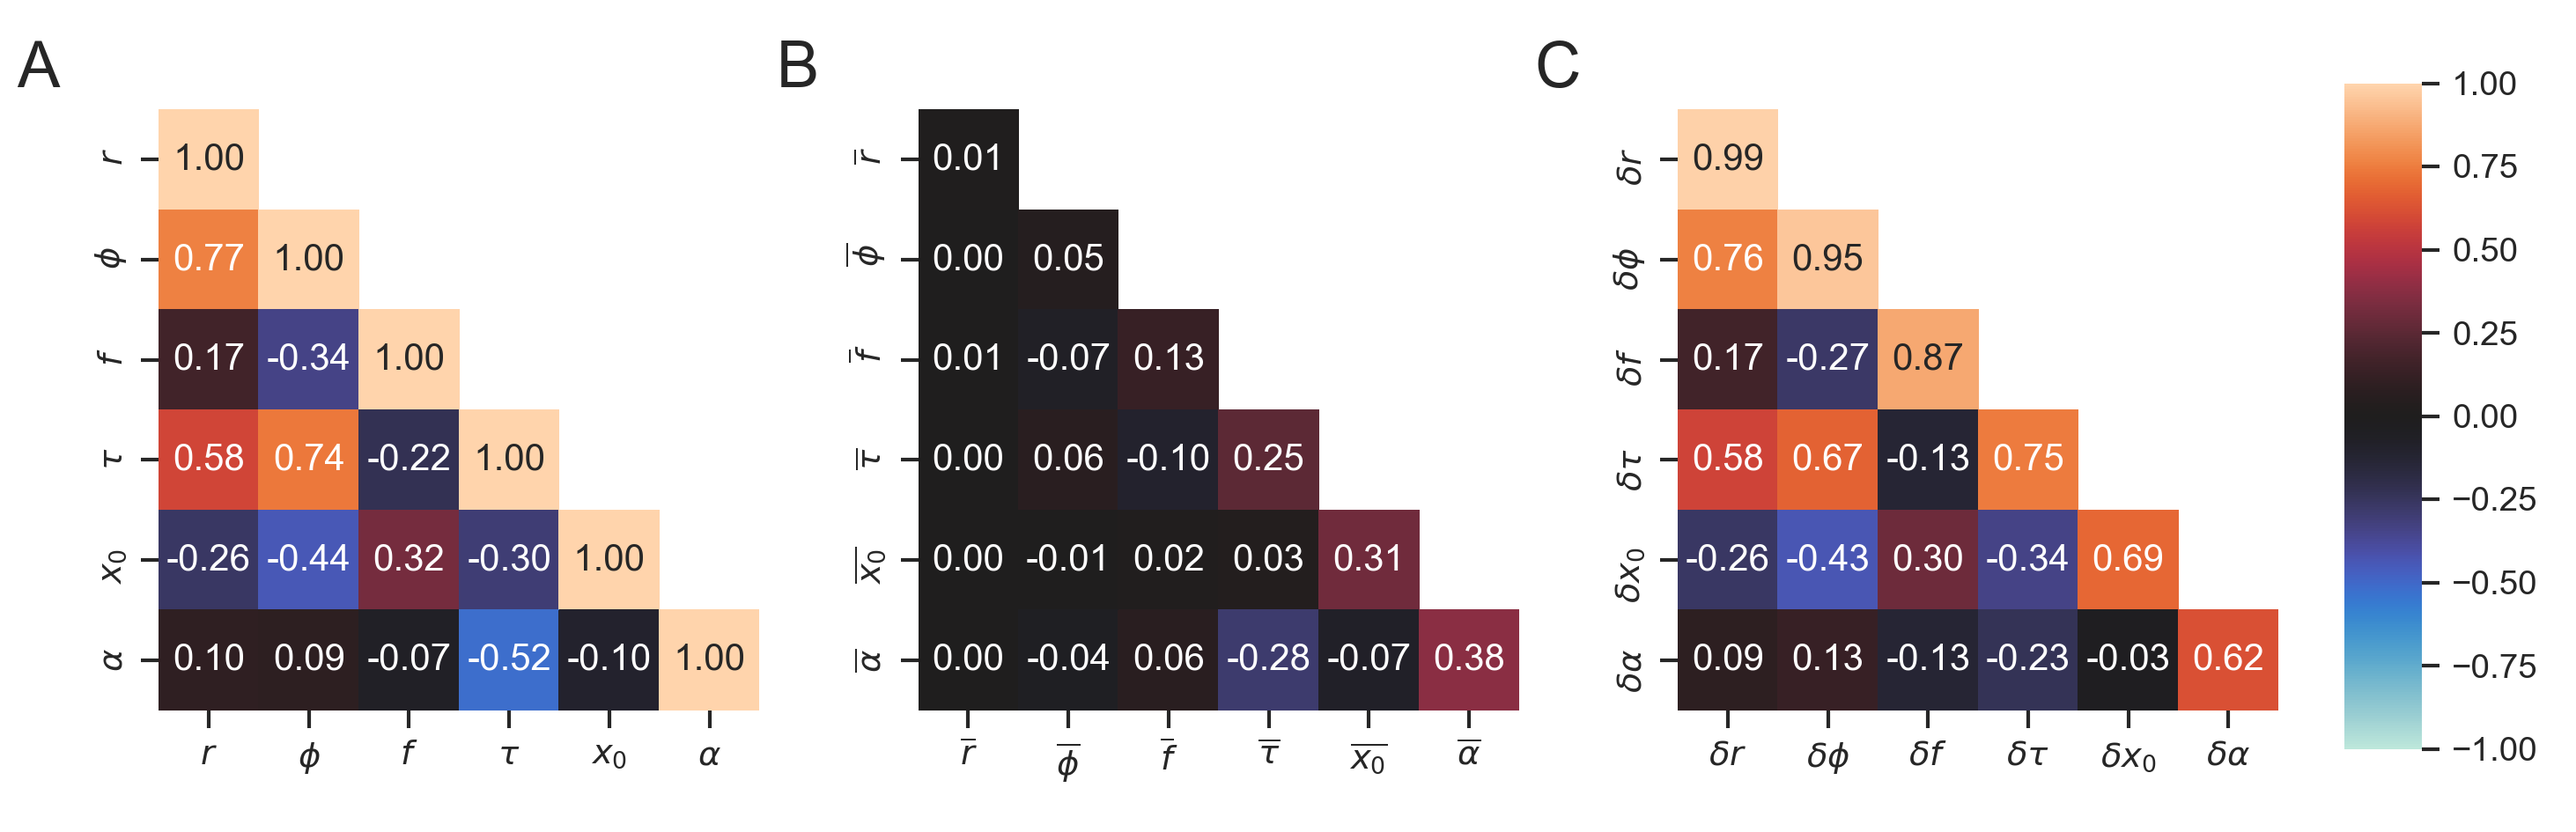
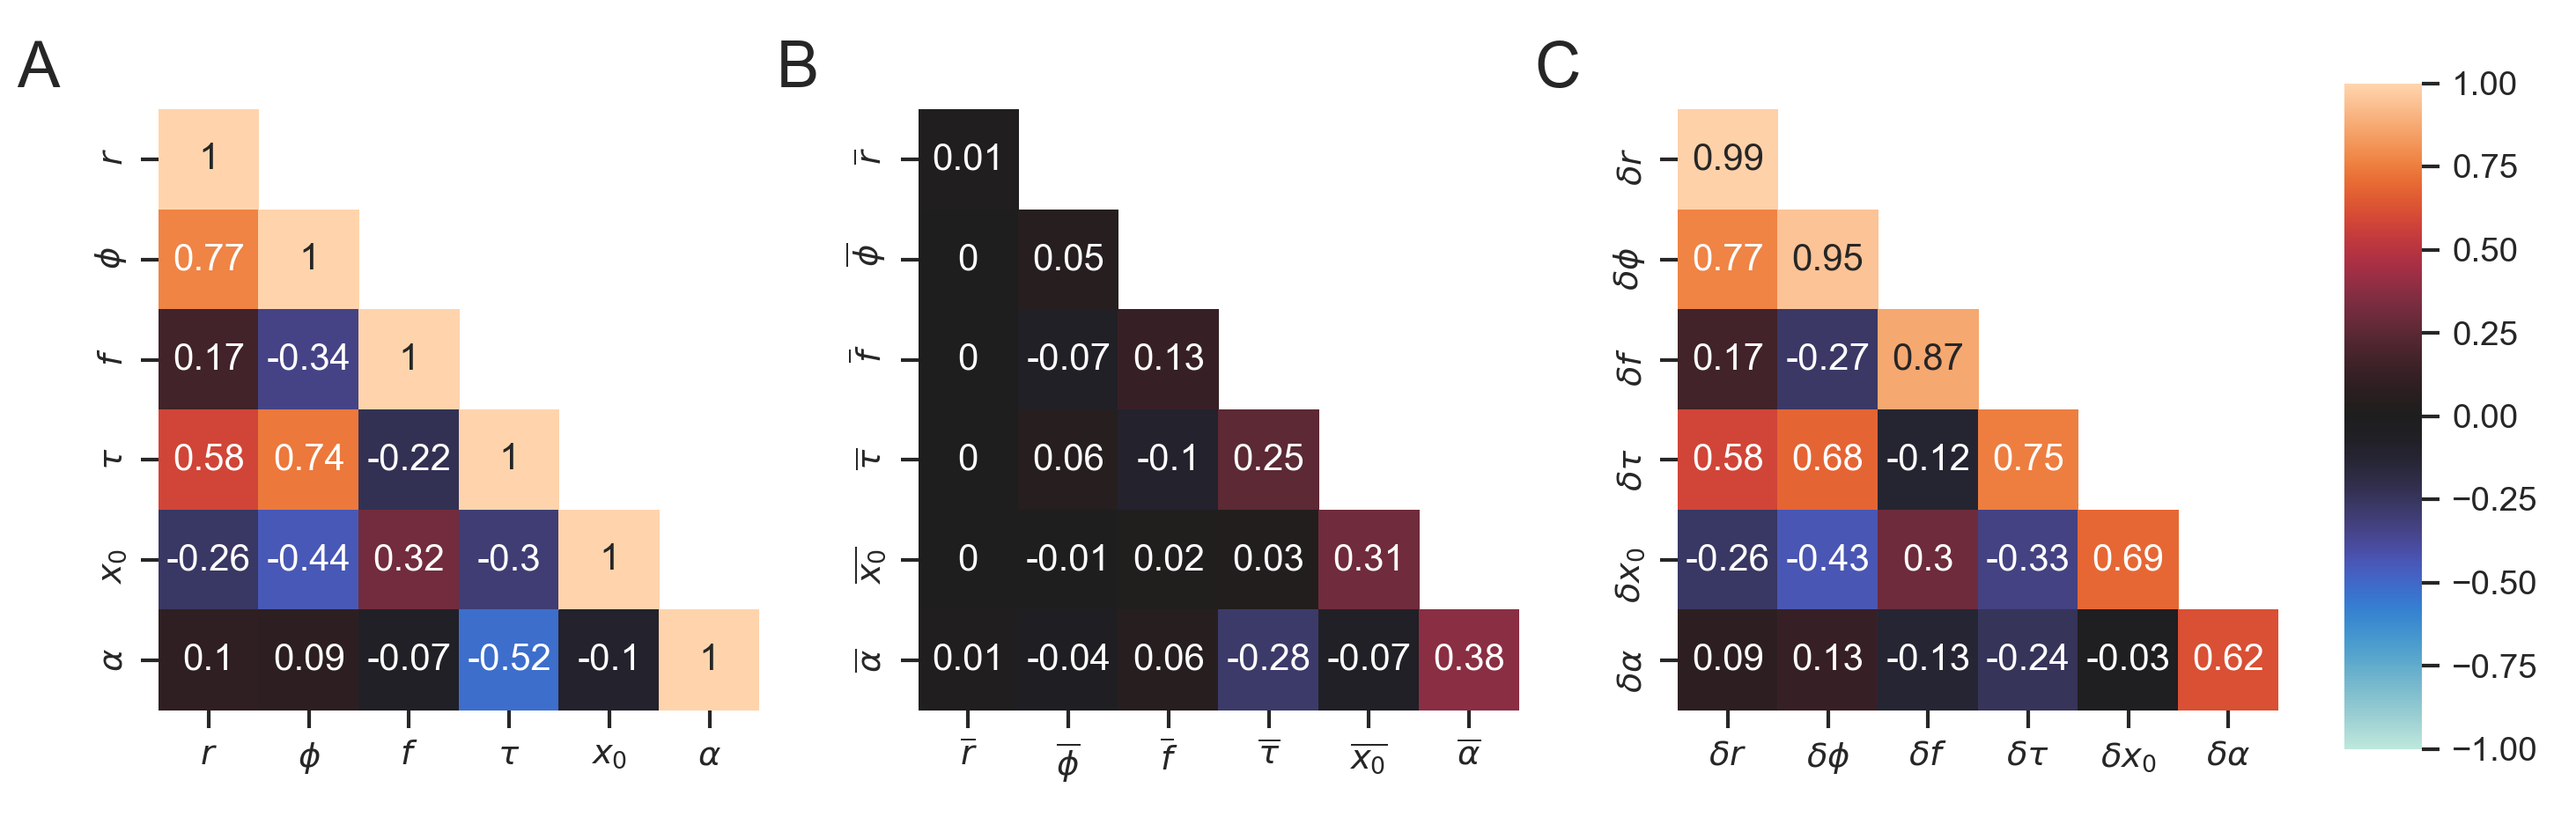
11/3/21

diff --git a/CovarianceDecomposition/covariance_decomposition_pyramids.py b/CovarianceDecomposition/covariance_decomposition_pyramids.py
@@ -14,7 +14,7 @@ def pyramid_of_pairwise_covariances(pu, ta, tc, fig, axes, variables=phenotypic_
         # The pooled mean
         pooled_pu_mean = phys[variables].mean()
 
-        pu_corr_df = phys.cov(ddof=1)
+        pu_corr_df = pd.DataFrame(columns=variables, index=variables, dtype=float)
         ta_corr_df = pd.DataFrame(columns=variables, index=variables, dtype=float)
         tc_corr_df = pd.DataFrame(columns=variables, index=variables, dtype=float)
         
@@ -27,31 +27,49 @@ def pyramid_of_pairwise_covariances(pu, ta, tc, fig, axes, variables=phenotypic_
                 else:
                     print(param_1, param_2)
                 
-                normalization = (pu[param_1].std(ddof=1) * pu[param_2].std(ddof=1))
+                normalization = (phys[param_1].std(ddof=1) * phys[param_2].std(ddof=1))
+                # print('normalization', normalization)
                 
                 # The two components in the decomposition
-                delta = []
-                line = []
+                total = np.array([])
+                delta = np.array([])
+                line = np.array([])
                 
                 for lin_id in phys.lineage_ID.unique():
                     l_cond = (phys['lineage_ID'] == lin_id)  # Condition that they are in the same experiment and lineage
-                    lin = phys[l_cond].copy()[[param_1, param_2]].dropna().reset_index(drop=True)  # The masked dataframe that contains bacteria in the same lineage and experiment
+                    # The masked dataframe that contains bacteria in the same lineage and experiment
+                    lin = phys[l_cond].copy()[[param_1, param_2]].dropna().reset_index(drop=True) if param_1 != param_2 else phys[l_cond].copy()[param_1].dropna().reset_index(drop=True)
+                    
+                    # print('lin', lin, type(lin))
                 
                     # Add the components
-                    line.append(len(lin) * ((lin[param_1].mean() - pooled_pu_mean[param_1]) * (lin[param_2].mean() - pooled_pu_mean[param_2])))
-                    delta.append((lin[param_1] - lin[param_1].mean()) * (lin[param_2] - lin[param_2].mean()))
+                    if param_1 != param_2:
+                        total = np.append(total, (lin[param_1] - pooled_pu_mean[param_1]).values * (lin[param_2] - pooled_pu_mean[param_2]))
+                        line = np.append(line, len(lin) * ((lin[param_1].mean() - pooled_pu_mean[param_1]) * (lin[param_2].mean() - pooled_pu_mean[param_2])))
+                        delta = np.append(delta, (lin[param_1] - lin[param_1].mean()).values * (lin[param_2] - lin[param_2].mean()).values)
+                    else:
+                        total = np.append(total, (lin - pooled_pu_mean[param_1]) ** 2)
+                        line = np.append(line, np.array(len(lin) * ((lin.mean() - pooled_pu_mean[param_1]) ** 2)))
+                        delta = np.append(delta, np.array((lin - lin.mean()) ** 2))
     
                 # Get the variance of each one
-                delta_cov = (np.sum(delta) / (len(phys[[param_1, param_2]].dropna()) - 1)) / normalization
-                lin_cov = (np.sum(line) / (len(phys[[param_1, param_2]].dropna()) - 1)) / normalization
-    
-                print(delta_cov, lin_cov, (delta_cov + lin_cov), pu_corr_df.loc[param_1, param_2])
+                total_cov = (np.sum(total) / (len(phys[[param_1, param_2]].dropna()) - 1))
+                delta_cov = (np.sum(delta) / (len(phys[[param_1, param_2]].dropna()) - 1))
+                lin_cov = (np.sum(line) / (len(phys[[param_1, param_2]].dropna()) - 1))
                 
                 # Make sure it is a true decomposition
-                assert (np.abs(pu_corr_df.loc[param_1, param_2] - (delta_cov + lin_cov)) < .0000001).all()
+                assert (np.abs(total_cov / normalization - (delta_cov + lin_cov) / normalization) < .0000001).all()
+                
+                lin_cov = np.round(lin_cov / normalization, 2)
+                delta_cov = np.round(delta_cov / normalization, 2)
+                total_cov = np.round(total_cov / normalization, 2)
+                
+                if lin_cov + delta_cov != total_cov:
+                    delta_cov += total_cov - (delta_cov + lin_cov)  # Change the short term correlations accordingly so that they all add up to one
 
                 ta_corr_df.loc[param_1, param_2] = lin_cov
                 tc_corr_df.loc[param_1, param_2] = delta_cov
+                pu_corr_df.loc[param_1, param_2] = total_cov
                 
             memory.append(param_1)
                 
@@ -78,25 +96,14 @@ def pyramid_of_pairwise_covariances(pu, ta, tc, fig, axes, variables=phenotypic_
     #
     #     return corr_df
     
-    # So that we get a lower diagonal matrix
-    mask = np.ones_like(normalize_correlation(pu, variables))
-    mask[np.tril_indices_from(mask)] = False
-    
     # The bounds for the color in the heatmap. Given from the bounds of the pearson correlation
     vmax, vmin = 1, -1
 
     npu, nta, ntc = normalize_correlation(pu, variables)
     
-    # # Different normalized correlations corresponding to the different pyramids. Change their column names to the latex version for plotting.
-    # npu = normalize_correlation(pu, variables).rename(columns=symbols['physical_units'], index=symbols['physical_units'])
-    # nta = normalize_correlation(ta, variables).rename(columns=symbols['time_averages'], index=symbols['time_averages'])
-    # ntc = normalize_correlation(tc, variables).rename(columns=symbols['trace_centered'], index=symbols['trace_centered'])
-    
-    print(npu.loc[symbols['physical_units']['growth_rate'], symbols['physical_units']['generationtime']])
-    print(nta.loc[symbols['time_averages']['growth_rate'], symbols['time_averages']['generationtime']] + ntc.loc[symbols['trace_centered']['growth_rate'], symbols['trace_centered']['generationtime']])
-    print(nta.loc[symbols['time_averages']['growth_rate'], symbols['time_averages']['generationtime']])
-    print(ntc.loc[symbols['trace_centered']['growth_rate'], symbols['trace_centered']['generationtime']])
-    exit()
+    # So that we get a lower diagonal matrix
+    mask = np.ones_like(npu)
+    mask[np.tril_indices_from(mask)] = False
     
     # Plot the first pyramid
     sns.heatmap(npu, annot=annot, center=0, vmax=vmax,
@@ -116,7 +123,7 @@ def pyramid_of_pairwise_covariances(pu, ta, tc, fig, axes, variables=phenotypic_
     axes[2].set_title('C', x=-.2, fontsize='xx-large')
     
     fig.tight_layout(rect=[0, 0, .9, 1])
-    # plt.savefig(f'{figurename}.png', dpi=300)
+    plt.savefig(f'{figurename}.png', dpi=300)
     plt.show()
     plt.close()
 

diff --git a/SizeVariablesAverageBehavior/size_variables_code.py b/SizeVariablesAverageBehavior/size_variables_code.py
@@ -17,11 +17,11 @@ def add_scatterplot_of_averages(var1, var2, pooled, time_average, ax, type_of_li
             # lineages = df[(df['experiment'] == exp)].lineage_ID.unique()
             ax.scatter(time_average.sort_values('lineage_ID')[var1],  # So they don't overlap too much
                        time_average.sort_values('lineage_ID')[var2],  # [df[(df['experiment'] == exp) & (df['lineage_ID'] == lin_id)][var2].mean() for lin_id in lineages[:min(len(lineages), 50)]]
-                       marker=marker, zorder=500, label=exp.split('(')[0] if type_of_lineage == 'Trace' else '', alpha=.6)
+                       marker=marker, zorder=500, label=exp.split('(')[0] if type_of_lineage == 'Trace' else '', alpha=.4)
     else:
         first = time_average.sort_values('lineage_ID')[var1]  # [df[df['lineage_ID'] == lin_id][var1].mean() for lin_id in df.lineage_ID.unique() if len(df[df['lineage_ID'] == lin_id]) > 6]
         second = time_average.sort_values('lineage_ID')[var2]  # [df[df['lineage_ID'] == lin_id][var2].mean() for lin_id in df.lineage_ID.unique() if len(df[df['lineage_ID'] == lin_id]) > 6]
-        ax.scatter(first, second, marker=marker, c=cmap[0] if type_of_lineage == 'Trace' else cmap[1], zorder=500, alpha=.6,
+        ax.scatter(first, second, marker=marker, c=cmap[0] if type_of_lineage == 'Trace' else cmap[1], zorder=500, alpha=.4,
                    label='Trace' if type_of_lineage == 'Trace' else 'Artificial')
         print(f'Trace averages correlation: {pearsonr(first, second)[0]}' if type_of_lineage == 'Trace'
               else f'Artificial averages correlation: {pearsonr(first, second)[0]}')
@@ -40,10 +40,10 @@ def plot_binned_data(df, var1, var2, num, ax):
         x_binned.append(df.loc[indices][var1].mean())
         y_binned.append(df.loc[indices][var2].mean())
     
-    ax.plot(x_binned, y_binned, marker='s', label='binned', zorder=1000, alpha=.6, c='k')
+    ax.plot(x_binned, y_binned, marker='s', label='binned', zorder=1000, alpha=.4, c='k')
 
 
-def kde_scatterplot_variables(df, var1, var2, num, ax, line_func=[], line_label='', pooled=False, artificial=None, sym1=None, sym2=None):  # df is pu of ONE experiment
+def kde_scatterplot_variables(df, var1, var2, num, ax, line_func=[], line_label='', pooled=False, artificial=None, sym1=None, sym2=None, pu=None):  # df is pu of ONE experiment
     # The symbols for each variable
     if sym1 == None:
         sym1 = symbols['physical_units'][var1]  # if var1 != 'division_ratio' else r'$\ln(f)$'
@@ -60,7 +60,7 @@ def kde_scatterplot_variables(df, var1, var2, num, ax, line_func=[], line_label=
         print(f'pooled correlation (Artificial): {pearsonr(no_nans_art[var1].values, no_nans_art[var2].values)[0]}')
     
     # To speed it up we sample randomly 1,000 points
-    # sns.kdeplot(data=df.sample(frac=.8, replace=False), x=var1, y=var2, color='gray', ax=ax)  # Do the kernel distribution approxiamtion for variables in their physical dimensions
+    sns.kdeplot(data=pu, x=var1, y=var2, color=cmap[1], ax=ax, levels=[.2, .3, .4, .5, .6, .7, .8])  # Do the kernel distribution approxiamtion for variables in their physical dimensions
     add_scatterplot_of_averages(var1, var2, pooled, df, ax, type_of_lineage='Trace')  # Put the average behavior
     
     if len(line_func) == 0:  # if we didn't put any
@@ -76,7 +76,7 @@ def kde_scatterplot_variables(df, var1, var2, num, ax, line_func=[], line_label=
             ax.plot(fake_x, func(fake_x), color='black' if count == 0 else 'gray', ls='--', label=line_label, zorder=1000)  # plot the x distribution
     
     # plt.title(ds)
-    # plot_binned_data(df, var1, var2, num, ax)  # plot the binned data
+    plot_binned_data(pu, var1, var2, num, ax)  # plot the binned data
     ax.set_xlabel(sym1)
     ax.set_ylabel(sym2)
     # ax.legend(title='')
@@ -156,12 +156,13 @@ def plot_pair_scatterplots(df, var1, var2, ax, sym1=None, sym2=None):
     
 
 pu = pd.read_csv(f'/Users/alestawsky/PycharmProjects/Thesis/Datasets/Pooled_SM/ProcessedData/z_score_under_3/physical_units_without_outliers.csv')
+pu['fold_growth'] = np.exp(pu['fold_growth'])
 ta = pd.read_csv(f'/Users/alestawsky/PycharmProjects/Thesis/Datasets/Pooled_SM/ProcessedData/z_score_under_3/time_averages_without_outliers.csv').drop('generation', axis=1).drop_duplicates()
 ta['fold_growth'] = np.exp(ta['fold_growth'])
 art = get_time_averages_df(shuffle_info(pu, False), phenotypic_variables).drop('generation', axis=1).drop_duplicates()
-art['fold_growth'] = np.exp(art['fold_growth'])
+# art['fold_growth'] = np.exp(art['fold_growth'])
 
-num = 10
+num = 8
 
 scale = 1.5
 
@@ -191,10 +192,9 @@ kde_scatterplot_variables(
     ax=axes[0],
     line_func=[lambda x: 2 * x],  # 'regression',  #lambda x: np.log(2) / x, lambda x: -x ;;;;; None,
     pooled=False,
-    artificial=art
+    artificial=art,
+    pu=pu
 )
-
-print(ta['length_birth'].values - (np.mean(ta['length_birth'].values) * (-1 + np.exp(ta['fold_growth'].mean())))/2)
 
 kde_scatterplot_variables(
     df=ta,
@@ -204,7 +204,8 @@ kde_scatterplot_variables(
     ax=axes[1],
     line_func=[lambda x: x],  # 'regression',  #lambda x: np.log(2) / x, lambda x: -x ;;;;; None, lambda x: x - (np.nanmean(x) * (-1 + np.exp(pu['fold_growth'].mean())))/2
     pooled=False,
-    artificial=art
+    artificial=art,
+    pu=pu
 )
 
 kde_scatterplot_variables(
@@ -216,14 +217,15 @@ kde_scatterplot_variables(
     line_func=[lambda x: 2 * np.array([1 for _ in np.arange(len(x))])],  # lambda x: np.nanmean(pu['fold_growth'].values) * np.array([1 for _ in np.arange(len(x))])
     pooled=False,
     artificial=art,
-    sym2=r'$e^{\phi}$'
+    sym2=r'$e^{\phi}$',
+    pu=pu
 )
 
 # handles = [mpatches.Patch(color=cmap[1], label='Artificial'), mpatches.Patch(color=cmap[0], label='Trace')]
-handles, labels = axes[0].get_legend_handles_labels()
-axes[0].legend(handles, labels, fontsize='small')  # , markerscale=.5
+# handles, labels = axes[0].get_legend_handles_labels()
+# axes[0].legend(handles, labels, fontsize='small')  # , markerscale=.5
 
 # plt.legend()
-plt.savefig('size_variables.png', dpi=300)
+# plt.savefig('size_variables.png', dpi=300)
 plt.show()
 plt.close()

diff --git a/MicroenvironmentAverageBehavior/alpha_tau_code.py b/MicroenvironmentAverageBehavior/alpha_tau_code.py
@@ -43,12 +43,12 @@ def plot_binned_data(df, var1, var2, num, ax):
     ax.plot(x_binned, y_binned, marker='s', label='binned', zorder=1000, alpha=.6, c='k')
 
 
-def kde_scatterplot_variables(df, var1, var2, num, ax, line_func=[], line_label='', pooled=False, artificial=None, sym1=None, sym2=None):  # df is pu of ONE experiment
+def kde_scatterplot_variables(df, var1, var2, num, ax, line_func=[], line_label='', pooled=False, artificial=None, sym1=None, sym2=None, pu=None):  # df is pu of ONE experiment
     # The symbols for each variable
     if sym1 == None:
-        sym1 = symbols['physical_units'][var1]  # if var1 != 'division_ratio' else r'$\ln(f)$'
+        sym1 = symbols['time_averages'][var1]  # if var1 != 'division_ratio' else r'$\ln(f)$'
     if sym2 == None:
-        sym2 = symbols['physical_units'][var2]
+        sym2 = symbols['time_averages'][var2]
 
     df = df[df['max_gen'] > 15].copy().reset_index(drop=True)  # Take out extra small lineages
     
@@ -62,7 +62,7 @@ def kde_scatterplot_variables(df, var1, var2, num, ax, line_func=[], line_label=
         print(f'pooled correlation (Artificial): {pearsonr(no_nans_art[var1].values, no_nans_art[var2].values)[0]}')
     
     # To speed it up we sample randomly 1,000 points
-    # sns.kdeplot(data=df.sample(frac=.8, replace=False), x=var1, y=var2, color='gray', ax=ax)  # Do the kernel distribution approxiamtion for variables in their physical dimensions
+    # sns.kdeplot(data=pu, x=var1, y=var2, color='gray', ax=ax)  # Do the kernel distribution approxiamtion for variables in their physical dimensions
     add_scatterplot_of_averages(var1, var2, pooled, df, ax, 'Trace')  # Put the average behavior
     
     if len(line_func) == 0:  # if we didn't put any
@@ -192,7 +192,8 @@ kde_scatterplot_variables(
     ax=axes[0, 2],
     line_func=[lambda x: np.log(2) / x],  # 'regression',  #lambda x: np.log(2) / x, lambda x: -x ;;;;; None, , lambda x: pu['fold_growth'].mean() / x
     pooled=False,
-    artificial=art_ta
+    artificial=art_ta,
+    pu=pu
 )
 
 changed = pu.copy()
@@ -209,7 +210,8 @@ kde_scatterplot_variables(
     line_func=[lambda x: 1 / x],  # 'regression',  #lambda x: np.log(2) / x, lambda x: -x ;;;;; None, , lambda x: np.mean(np.exp(pu['fold_growth']) * np.mean(pu['division_ratio'])) / x
     pooled=False,
     artificial=art_changed_ta,
-    sym2=r'$e^{\phi}$'
+    sym2=r'$\overline{e^{\phi}}$',
+    pu=changed
 )
 
 # handles = [mpatches.Patch(color=cmap[1], label='Artificial'), mpatches.Patch(color=cmap[0], label='Trace')]
@@ -221,6 +223,6 @@ plot_pair_scatterplots(pu, 'growth_rate', 'growth_rate', axes[0, 0])
 plot_pair_scatterplots(pu, 'fold_growth', 'fold_growth', axes[1, 0])
 plot_pair_scatterplots(pu, 'division_ratio', 'division_ratio', axes[1, 1])  # , sym1=r'$\overline{\ln(f)}^{\, A}$', sym2=r'$\overline{\ln(f)}^{\, B}$')
 # plt.legend()
-plt.savefig('alpha_tau.png', dpi=300)
+# plt.savefig('alpha_tau.png', dpi=300)
 plt.show()
 plt.close()
